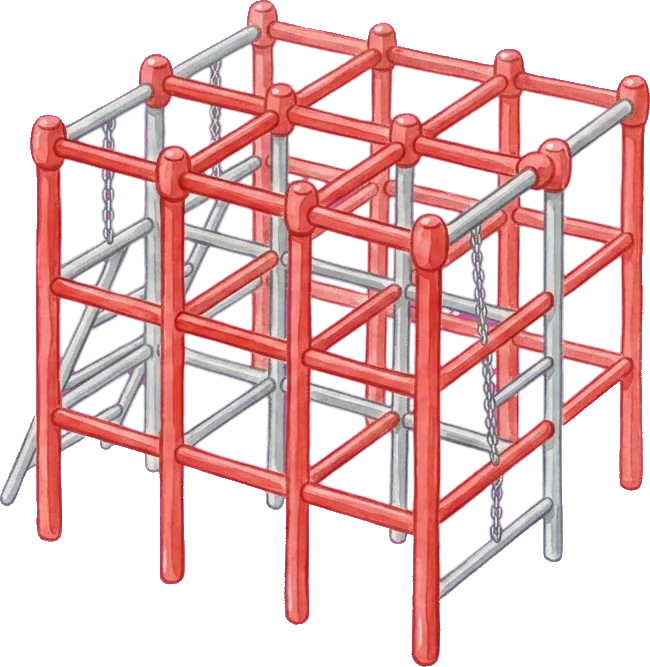
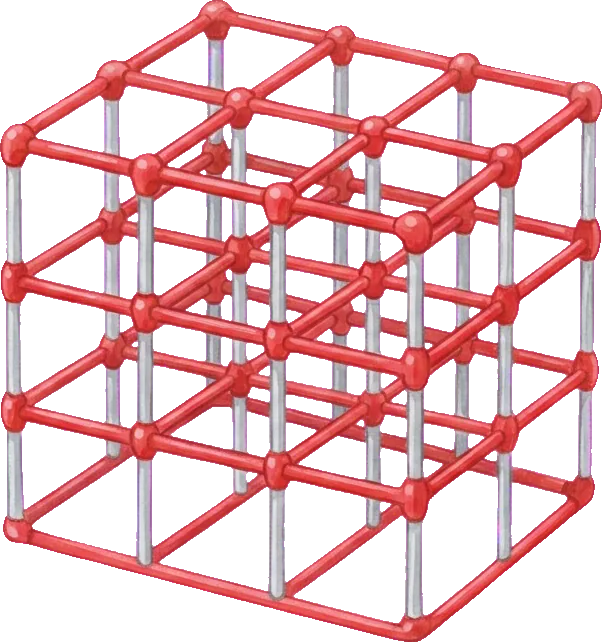
Park builder: plain colors plus patterns, redrawn jungle gym, flower bed, water tap and bench; drop bars

diff --git a/games/park-builder/index.html b/games/park-builder/index.html
@@ -21,13 +21,16 @@
   .card:active { transform: scale(.95); }
   /* 横向きは高さが足りないので、半分の大きさで2列にならべる */
   @media (orientation: landscape) {
-    #tray { display: grid; grid-template-columns: 1fr 1fr; align-content: start; gap: 10px; padding: 12px 10px; }
+    #tray { display: grid; grid-template-columns: repeat(2, minmax(0, 1fr)); align-content: start; overflow-x: hidden; gap: 10px; padding: 12px 10px; }
     .card { border-radius: 16px; padding: 6px; border-width: 2px; box-shadow: 0 3px 0 #ead6ae; }
   }
 
   /* 公園に置いた遊具。left/top は足もとの位置 */
   .item { position: absolute; transform: translate(-50%, -100%); touch-action: none; }
   .item img { width: 100%; display: block; filter: drop-shadow(0 6px 4px rgba(40, 70, 20, .25)); transform: scaleX(var(--flip, 1)); transition: transform .25s; }
+  /* 色・柄をぬった所。もとの絵の上にかさねる */
+  .item canvas { position: absolute; inset: 0; width: 100%; height: 100%; pointer-events: none; transform: scaleX(var(--flip, 1)); transition: transform .25s; }
+  .item.lift canvas { transform: scaleX(var(--flip, 1)) scale(1.06); }
   .item.pop { animation: pop .35s cubic-bezier(.3, 1.6, .5, 1); }
   .item.lift img { filter: drop-shadow(0 18px 10px rgba(40, 70, 20, .3)); transform: scaleX(var(--flip, 1)) scale(1.06); }
   .item.bye { animation: bye .3s ease-in forwards; }
@@ -37,13 +40,13 @@
   #ghost { position: fixed; z-index: 100; pointer-events: none; transform: translate(-50%, -85%) scale(1.05); opacity: .9; }
   #ghost img { width: 100%; filter: drop-shadow(0 16px 10px rgba(0, 0, 0, .25)); }
 
-  /* 色えらび */
-  #palette { position: absolute; display: none; gap: 10px; padding: 10px 12px; border-radius: 40px;
+  /* 柄えらび */
+  #palette { position: absolute; display: none; grid-template-columns: repeat(6, 46px); gap: 10px; padding: 12px 14px; border-radius: 30px;
     background: rgba(255, 255, 255, .95); box-shadow: 0 6px 16px rgba(0, 0, 0, .18); z-index: 60; transform: translate(-50%, 0); }
-  #palette.show { display: flex; }
+  #palette.show { display: grid; }
   #palette button { width: 46px; height: 46px; border-radius: 50%; border: 4px solid #fff; box-shadow: 0 0 0 2px #ddd; cursor: pointer; }
   #palette button.on { box-shadow: 0 0 0 4px #ffb84d; }
-  #palette button.flip { background: #fff7e6; display: grid; place-items: center; padding: 0; margin-left: 6px; }
+  #palette button.flip { background: #fff7e6; display: grid; place-items: center; padding: 0; }
   #palette button.flip svg { width: 30px; }
 
   /* ごみばこ：遊具を持っているときだけ出る */
@@ -77,15 +80,9 @@ const ITEMS = [
   { id: 'jungle_gym', h: 0.46 },
   { id: 'sandbox', h: 0.22 },
   { id: 'spring_rider', h: 0.15 },
-  { id: 'bars', h: 0.22 },
-];
-// 赤い絵の色をかえる（灰色の柱やくさりは そのまま）
-const COLORS = [
-  { c: '#e5483d', f: '' },
-  { c: '#f5c531', f: 'hue-rotate(58deg) saturate(1.4) brightness(1.2)' },
-  { c: '#5fbf5a', f: 'hue-rotate(105deg) brightness(1.05)' },
-  { c: '#3d8fe0', f: 'hue-rotate(205deg) brightness(1.05)' },
-  { c: '#f07fb8', f: 'hue-rotate(320deg) saturate(.75) brightness(1.25)' },
+  { id: 'flowerbed', h: 0.14 },
+  { id: 'water_tap', h: 0.2 },
+  { id: 'bench', h: 0.15 },
 ];
 const HORIZON = 0.50; // これより上（空や森）には置けない
 const FRONT = 0.97;   // いちばん手前
@@ -176,7 +173,7 @@ function place(item, x, y) {
   const el = document.createElement('div');
   el.className = 'item pop';
   el.innerHTML = `<img src="images/${item.id}.webp" alt="">`;
-  el.data = { item, x, y, color: 0 };
+  el.data = { item, x, y, pattern: 0 };
   stage.appendChild(el);
   layout(el);
   el.addEventListener('animationend', () => el.classList.remove('pop'), { once: true });
@@ -227,19 +224,103 @@ function overTrash(ev) {
   return Math.hypot(ev.clientX - (r.left + r.width / 2), ev.clientY - (r.top + r.height / 2)) < r.width * 0.9;
 }
 
-// ===== 色えらび =====
-let paletteFor = null;
-COLORS.forEach((col, i) => {
+// ===== 柄えらび =====
+// 赤くぬった所だけに色や柄をのせる（灰色の柱やくさりは そのまま）。上の段は無地、下の段は柄。0 は もとの赤
+let seed = 1;
+const rnd = () => (seed = seed * 16807 % 2147483647) / 2147483647;
+function starPath(c, x, y, r) {
+  c.beginPath();
+  for (let i = 0; i < 10; i++) {
+    const a = -Math.PI / 2 + i * Math.PI / 5, rr = i % 2 ? r * 0.45 : r;
+    c.lineTo(x + Math.cos(a) * rr, y + Math.sin(a) * rr);
+  }
+  c.fill();
+}
+function heartPath(c, x, y, r) {
+  c.beginPath();
+  c.moveTo(x, y + r * 0.9);
+  c.bezierCurveTo(x - r * 1.3, y, x - r * 0.8, y - r, x, y - r * 0.35);
+  c.bezierCurveTo(x + r * 0.8, y - r, x + r * 1.3, y, x, y + r * 0.9);
+  c.fill();
+}
+function blob(c, x, y, r) {
+  c.beginPath();
+  for (let i = 0; i < 5; i++) {
+    const a = rnd() * 6.3, d = r * 0.5 * rnd();
+    c.moveTo(x + Math.cos(a) * d, y + Math.sin(a) * d);
+    c.arc(x + Math.cos(a) * d, y + Math.sin(a) * d, r * (0.5 + 0.4 * rnd()), 0, 7);
+  }
+  c.fill();
+}
+// s は柄ひとつ分の大きさ
+const grid = (w, h, s, fn) => {
+  for (let y = 0, row = 0; y < h + s; y += s, row++)
+    for (let x = (row % 2) * s / 2; x < w + s; x += s) fn(x, y);
+};
+const PATTERNS = [
+  { bg: '#e5483d' },
+  { bg: '#f5c531' },
+  { bg: '#5fbf5a' },
+  { bg: '#3d8fe0' },
+  { bg: '#f07fb8' },
+  { bg: '#3b6fd1', draw: (c, w, h, s) => { c.fillStyle = '#ffd84a'; grid(w, h, s, (x, y) => starPath(c, x, y, s * 0.3)); } },
+  { bg: '#f27aa8', draw: (c, w, h, s) => { c.fillStyle = '#fff'; grid(w, h, s * 0.8, (x, y) => { c.beginPath(); c.arc(x, y, s * 0.17, 0, 7); c.fill(); }); } },
+  { bg: '#fff0f4', draw: (c, w, h, s) => { c.fillStyle = '#ff5f8f'; grid(w, h, s, (x, y) => heartPath(c, x, y, s * 0.28)); } },
+  { bg: '#fbfaf5', draw: (c, w, h, s) => { c.fillStyle = '#2b2b2b'; grid(w, h, s * 1.6, (x, y) => blob(c, x + s * (rnd() - .5), y + s * (rnd() - .5), s * 0.45)); } },
+  { bg: '#7d8f4e', draw: (c, w, h, s) => {
+    ['#a58a5a', '#4f6b34', '#2f3b25'].forEach(col => { c.fillStyle = col; grid(w, h, s * 1.1, (x, y) => blob(c, x + s * (rnd() - .5), y + s * (rnd() - .5), s * 0.35)); });
+  } },
+];
+function paintPattern(k, w, h, s) {
+  const cv = document.createElement('canvas');
+  cv.width = w; cv.height = h;
+  const c = cv.getContext('2d'), p = PATTERNS[k];
+  c.fillStyle = p.bg; c.fillRect(0, 0, w, h);
+  seed = 7; // 毎回おなじ模様になるように
+  p.draw?.(c, w, h, s);
+  return cv;
+}
+// 赤い所だけのかげの絵（_paint.webp）に柄をかけて、もとの絵の上にかさねる
+const paints = {};
+function paintImg(id) {
+  return paints[id] = paints[id] || new Promise((ok, ng) => {
+    const img = new Image();
+    img.onload = () => ok(img);
+    img.onerror = ng;
+    img.src = `images/${id}_paint.webp`;
+  });
+}
+async function applyPattern(el, k) {
+  el.querySelector('canvas')?.remove();
+  if (!k) return;
+  const pm = await paintImg(el.data.item.id);
+  if (el.data.pattern !== k) return; // 待つあいだに別の柄が押された
+  const w = pm.naturalWidth, h = pm.naturalHeight, cv = document.createElement('canvas');
+  cv.width = w; cv.height = h;
+  const c = cv.getContext('2d');
+  c.drawImage(paintPattern(k, w, h, Math.max(w, h) / 7), 0, 0);
+  c.globalCompositeOperation = 'multiply';    // 絵の明るい・暗いをうつす
+  c.drawImage(pm, 0, 0);
+  c.globalCompositeOperation = 'destination-in'; // 赤い所だけのこす
+  c.drawImage(pm, 0, 0);
+  el.querySelector('canvas')?.remove();
+  el.appendChild(cv);
+}
+PATTERNS.forEach((pt, i) => {
   const b = document.createElement('button');
-  b.style.background = col.c;
-  b.addEventListener('pointerdown', e => {
+  b.dataset.k = i;
+  if (pt.draw) {
+    b.style.background = `url(${paintPattern(i, 60, 60, 26).toDataURL()}) center / cover`;
+  } else b.style.background = pt.bg;
+  b.addEventListener('pointerdown', async e => {
     e.stopPropagation();
     if (!paletteFor) return;
-    paletteFor.data.color = i;
-    paletteFor.firstChild.style.filter = col.f ? col.f + ' drop-shadow(0 6px 4px rgba(40,70,20,.25))' : '';
-    [...palette.children].forEach((x, k) => x.classList.toggle('on', k === i && x !== flipBtn));
-    paletteFor.classList.remove('pop'); void paletteFor.offsetWidth; paletteFor.classList.add('pop');
+    const el = paletteFor;
+    el.data.pattern = i;
+    markPalette(i);
     pon(700 + i * 60);
+    try { await applyPattern(el, i); } catch (err) { return; }
+    el.classList.remove('pop'); void el.offsetWidth; el.classList.add('pop');
   });
   palette.appendChild(b);
 });
@@ -255,13 +336,14 @@ flipBtn.addEventListener('pointerdown', e => {
   paletteFor.style.setProperty('--flip', paletteFor.data.flip ? -1 : 1);
   pon(600);
 });
-palette.appendChild(flipBtn);
+palette.insertBefore(flipBtn, palette.children[5]); // 無地の段の右はし
+const markPalette = k => [...palette.children].forEach(x => x.classList.toggle('on', x.dataset.k == k));
 function showPalette(el) {
   paletteFor = el;
   const r = el.getBoundingClientRect();
   palette.style.left = Math.max(trayRight() + 150, Math.min(innerWidth - 150, r.left + r.width / 2)) + 'px';
-  palette.style.top = Math.min(innerHeight - 80, r.bottom + 10) + 'px';
-  [...palette.children].forEach((x, k) => x.classList.toggle('on', k === el.data.color && x !== flipBtn));
+  palette.style.top = Math.min(innerHeight - 140, r.bottom + 10) + 'px';
+  markPalette(el.data.pattern);
   palette.classList.add('show');
 }
 function hidePalette() { palette.classList.remove('show'); paletteFor = null; }

diff --git a/generate_park_builder_images.py b/generate_park_builder_images.py
@@ -33,7 +33,7 @@ PARK = (
 # 遊具：あとで切り抜くので背景はマゼンタ。色を変えやすいよう、おもな部分は1色にする
 ITEM = (
     " A single object only, seen from slightly above at a gentle three-quarter angle, matching a park background drawn the same way. "
-    "The main painted parts are all one bright red color so the color can be changed later; metal poles and chains are light gray. "
+    "The main painted parts are all one bright red color so the color can be changed later; metal parts are light gray. "
     "Background: one completely flat solid pure magenta color (#FF00FF) filling everything behind the object. "
     "No ground, no grass, no shadow, no scenery, no people."
 )
@@ -48,10 +48,12 @@ images = {
     "slide": "A cute playground slide: a short ladder on the left, a small platform with a little roof, and a smooth wide slide going down to the right. Nothing hangs from the roof: no chains, no ropes, no swings." + ITEM,
     "swing": "A cute playground swing set: a sturdy frame with two swings hanging on chains, with flat seats." + ITEM,
     "seesaw": "A cute playground seesaw: one long board balanced on a center pivot, with a small handle and a round seat at each end, tilted slightly." + ITEM,
-    "jungle_gym": "A cute playground jungle gym (climbing frame): a cube-shaped grid of bars, three bars tall and three wide, with round red joints and some red bars, simple and tidy." + ITEM,
+    "jungle_gym": "A cute playground jungle gym (climbing frame): a cube-shaped grid of bars, three bars tall and three wide, with round red joints and some red bars, simple and tidy. Nothing hangs from the bars: no chains, no ropes, no swings." + ITEM,
     "sandbox": "A cute playground sandbox: a low square wooden-edged frame painted red, filled with smooth light beige sand, with a small bucket and a shovel on the sand." + ITEM,
     "spring_rider": "A cute playground spring rider shaped like a round friendly horse with handles and a seat, standing on a big coiled metal spring." + ITEM,
-    "bars": "A cute playground horizontal bar set (tetsubou): three horizontal metal bars at low, middle and high heights in a row, held by red posts." + ITEM,
+    "flowerbed": "A cute small park flower bed: a low rounded oval border of light gray stones, filled with dark brown soil, green leaves and many round red tulip-like flowers." + ITEM,
+    "water_tap": "A cute park drinking fountain and water tap: a short round red pillar with a small light gray metal faucet on top and a little round basin, a tiny drop of water falling from the faucet." + ITEM,
+    "bench": "A cute park bench: a seat and backrest made of red wooden slats, with simple light gray metal legs and armrests, facing slightly to the right." + ITEM,
 }
 
 

diff --git a/process_park_builder_images.py b/process_park_builder_images.py
@@ -4,13 +4,34 @@
 """
 import os
 import sys
+import numpy as np
+from PIL import Image
 import process_size_images as p
 
 BASE = os.path.join(os.path.dirname(__file__), "games", "park-builder")
 p.RAW = os.path.join(BASE, "raw")
 p.OUT = os.path.join(BASE, "images")
 
+
+def paint_layer(name):
+    """赤くぬった所だけを取り出した かげの絵 images/<name>_paint.webp を作る。
+    ゲームの中で柄や色をこれにかけて、もとの絵の上にかさねる。"""
+    src = os.path.join(p.OUT, f"{name}.webp")
+    a = np.array(Image.open(src).convert("RGBA")).astype(float)
+    r, g, b = a[..., 0], a[..., 1], a[..., 2]
+    ch = r - np.minimum(g, b)
+    red = (r >= 100) & (r >= g) & (r >= b) & (ch >= 50) & (np.abs(g - b) * 3 <= ch)  # 光ったピンクもふくむ
+    shade = np.minimum(1, r / 225 + np.maximum(0, g - 80) / 425) * 255
+    out = np.zeros_like(a)
+    out[..., 0] = out[..., 1] = out[..., 2] = shade
+    out[..., 3] = np.where(red, a[..., 3], 0)
+    Image.fromarray(out.astype("uint8")).save(os.path.join(p.OUT, f"{name}_paint.webp"), lossless=True)
+    print(f"  {name}_paint")
+
+
 if __name__ == "__main__":
     names = sys.argv[1:] or sorted(f[:-4] for f in os.listdir(p.RAW) if f.endswith(".png"))
     for n in names:
         p.process(n)
+        if not n.startswith("bg_"):
+            paint_layer(n)
